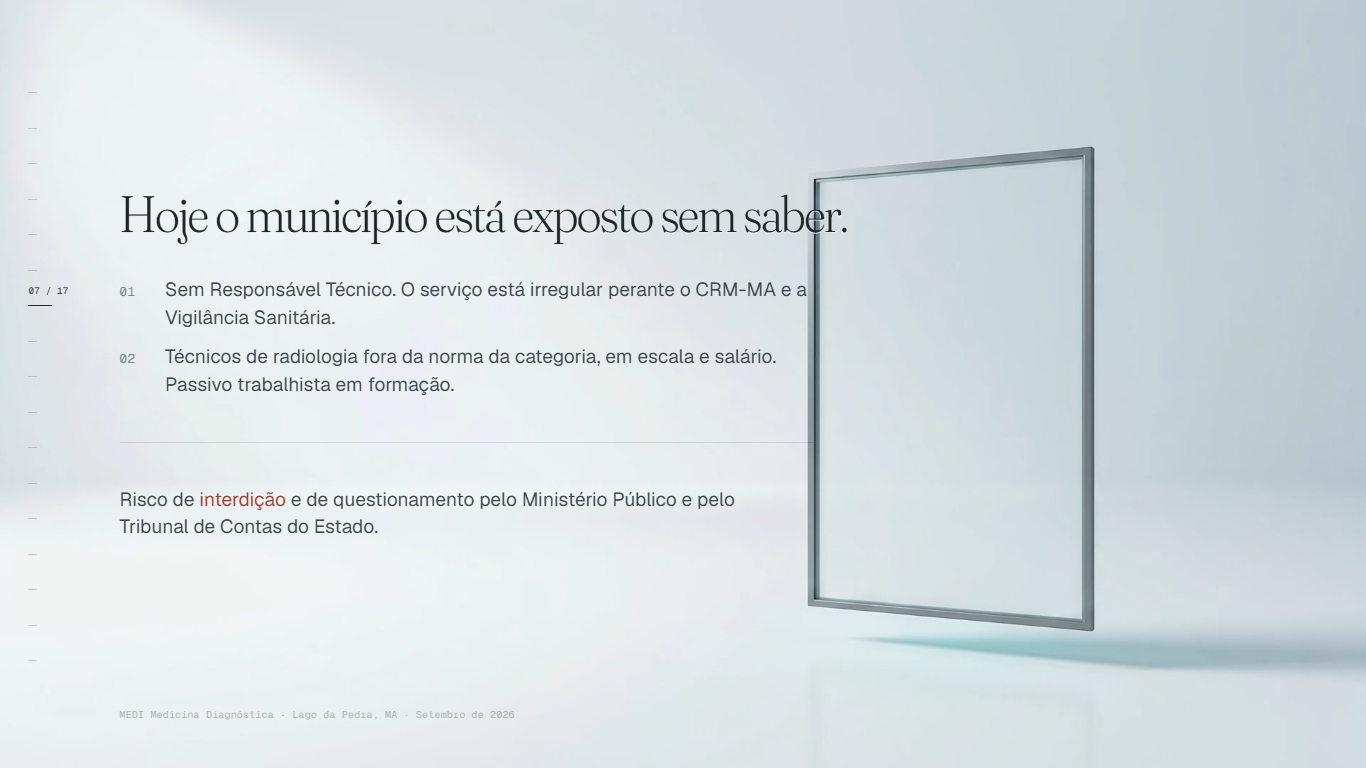
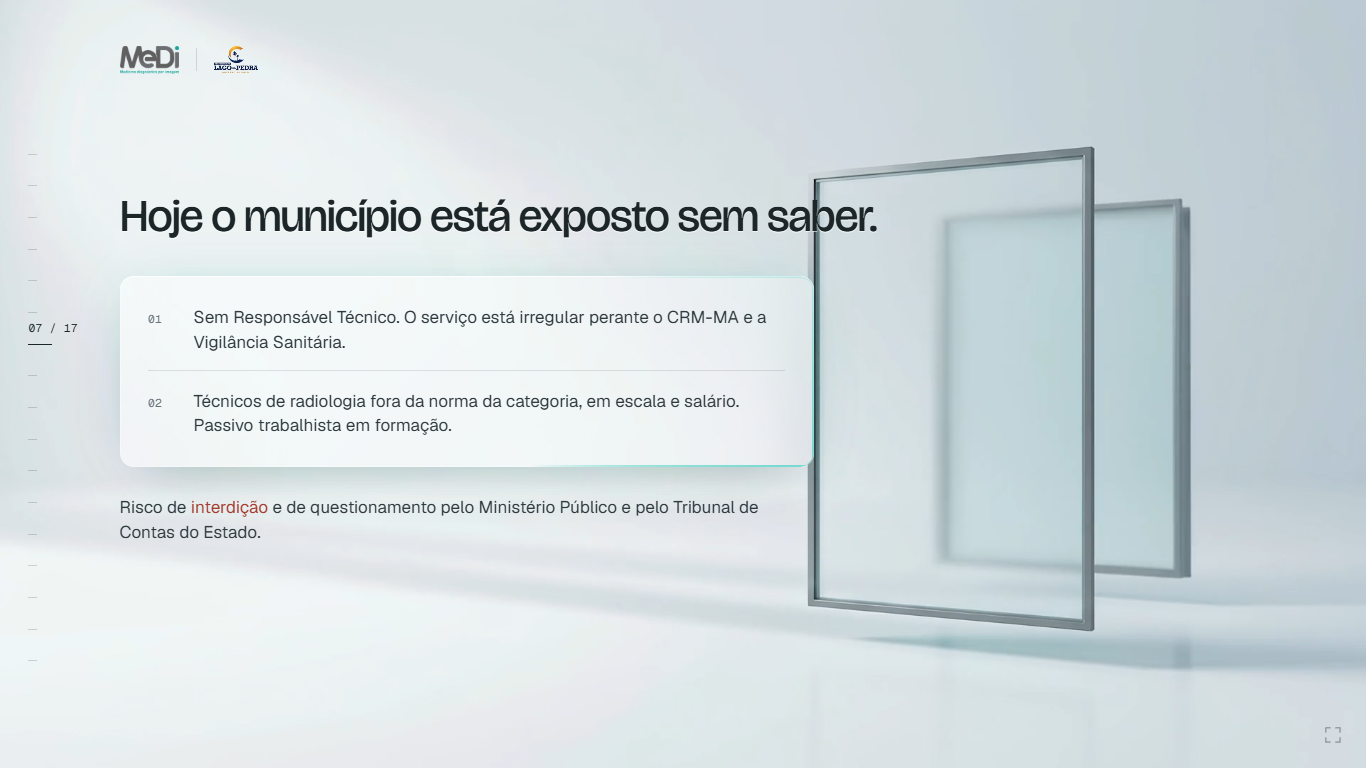
Ajustes 2

diff --git a/styles.css b/styles.css
@@ -489,6 +489,59 @@ html, body {
 .list-text { flex: 1 1 auto; }
 .list-lead { color: var(--ink); }
 
+/* ---------- Slide 7: as duas exposicoes em vidro ---------- */
+/* Um painel, duas linhas empilhadas — a lista numerada do deck, dentro do
+ * vidro. O numero e marca de regua na canaleta (40 px, como em .list-num), o
+ * texto ocupa a medida inteira (~66 caracteres em Geist 24) e um unico
+ * hairline separa as linhas: o vidro ja fecha o grupo, a ultima linha nao
+ * precisa de filete. Ritmo em tres compassos: apertado no par numero/texto,
+ * medio entre as linhas (24 + 24 de palco), generoso entre o vidro e a
+ * consequencia (24 da faixa + 16). Sem estas regras o painel herdava o
+ * `display: flex` de `.band > .glass` e deitava as duas exposicoes lado a
+ * lado, coladas. */
+.expo-panel {
+  flex: 0 0 auto;
+  flex-direction: column;
+  align-items: stretch;
+  gap: 0;
+}
+
+.expo {
+  position: relative;
+  display: flex;
+  align-items: baseline;
+  gap: var(--g24);
+  padding: var(--g24) 0;
+}
+
+.expo:first-child { padding-top: 0; }
+.expo:last-child { padding-bottom: 0; }
+
+.expo-num {
+  flex: 0 0 calc(40 * var(--s));
+  line-height: 1.45;
+  font-variant-numeric: tabular-nums;
+}
+
+.expo-text {
+  flex: 1 1 auto;
+  min-width: 0;
+}
+
+.expo-rule {
+  position: absolute;
+  left: 0;
+  right: 0;
+  bottom: 0;
+  width: auto;
+}
+
+.expo:last-child .expo-rule { display: none; }
+
+/* A consequencia e a leitura do painel, nao mais um item dele: ganha um
+ * compasso a mais que o gap da faixa. */
+.expo-conseq { margin-top: var(--g16); }
+
 /* ---------- Slide 2: painel em duas colunas ---------- */
 /* Um unico vidro, colunas 1 a 7 (960 px na escala base). A esquerda, as
  * quatro modalidades em corpo pequeno; a direita, a soma em display grande
